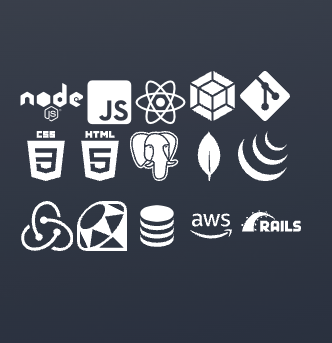
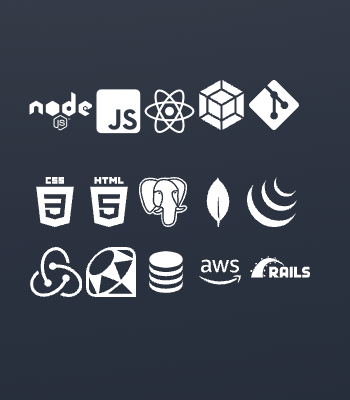
fix skill section

diff --git a/index.html b/index.html
@@ -157,29 +157,6 @@
 				<!-- Footer -->
 					<section id="footer">
 						<div class="inner">
-							<ul>
-									<span class="fab fa-node" style="font-size:50px"></span> 
-									<span class="fab fa-js-square" style="font-size:50px"></span>
-									<span class="fab fa-react" style="font-size:50px"></span>
-									<span class="iconify" data-icon="file-icons:webpack" style="font-size:50px"></span>
-									<span class="iconify" data-icon="bi:git" style="font-size:50px"></span>
-									</br>
-									<span class="iconify" data-icon="akar-icons:css-fill" style="font-size:50px"></span> 
-									<span class="iconify" data-icon="akar-icons:html-fill" style="font-size:50px"></span>
-									<span class="iconify" data-icon="cib:postgresql" style="font-size:50px"></span>
-									<span class="iconify" data-icon="simple-icons:mongodb" style="font-size:50px"></span>
-									<span class="iconify" data-icon="akar-icons:jquery-fill" style="font-size:50px"></span>
-									</br>
-									<span class="iconify" data-icon="fontisto:redux" style="font-size:50px"></span>
-									<span class="iconify" data-icon="whh:ruby" style="font-size:50px"></span>
-									<span class="iconify" data-icon="bx:bxs-coin-stack" style="font-size:50px"></span>
-									<span class="iconify" data-icon="mdi:aws" style="font-size:50px"></span>
-									<span class="iconify" data-icon="simple-icons:rubyonrails" style="font-size:60px"></span>
-								</br>
-								</br>
-								</br>
-								</br>
-							</ul>
 							<h2 class="major">Contact Information</h2>
 							<ul class="contact">
 								<li class="icon solid fa-home">
